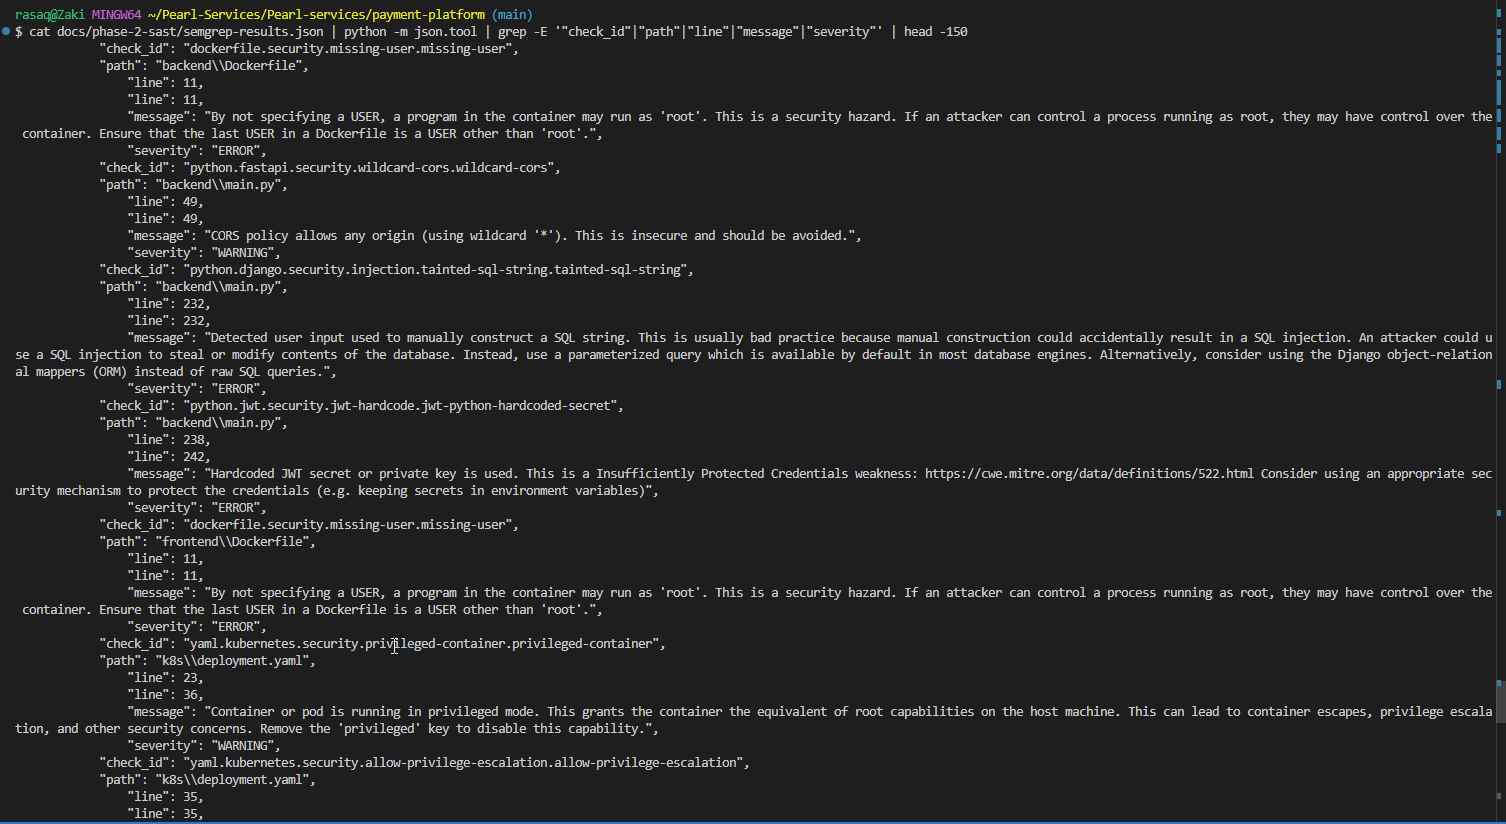
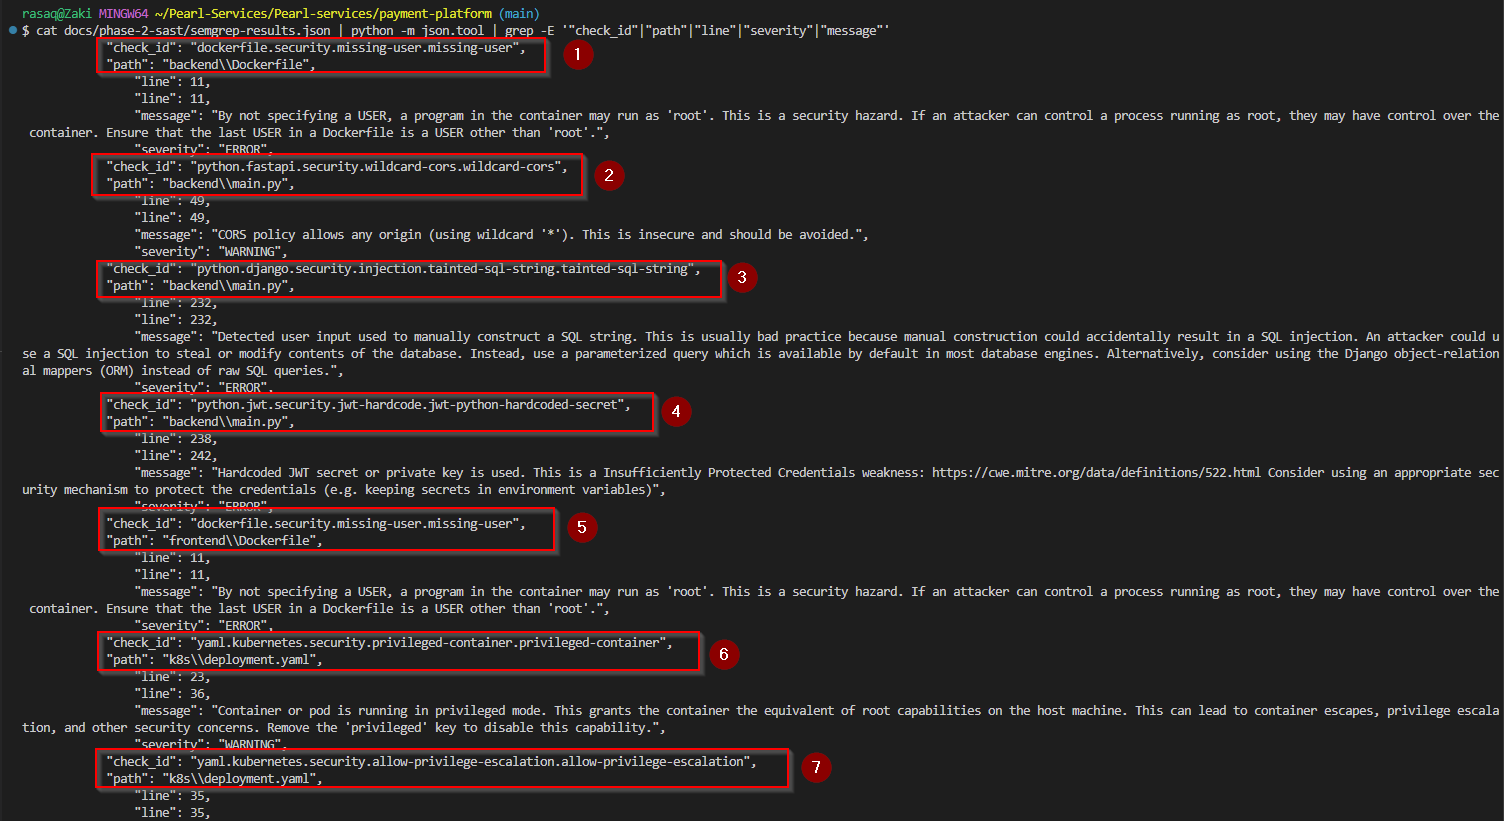
doc: updated screenshot evidence

Changed region(s): [[0.0, 0.0, 1.0, 1.0], [0.9688, 0.9744, 1.0, 1.0]]

diff --git a/payment-platform/docs/phase-1-setup/README - phase 1.md b/payment-platform/docs/phase-1-setup/README - phase 1.md
@@ -169,7 +169,7 @@ git log --oneline
 cat .env
 ```
 
-Screenshot: ![.env committed to git](./env-commited.png)
+Screenshot: ![.env commited to git](./env-commited.png)
 
 ---
 
